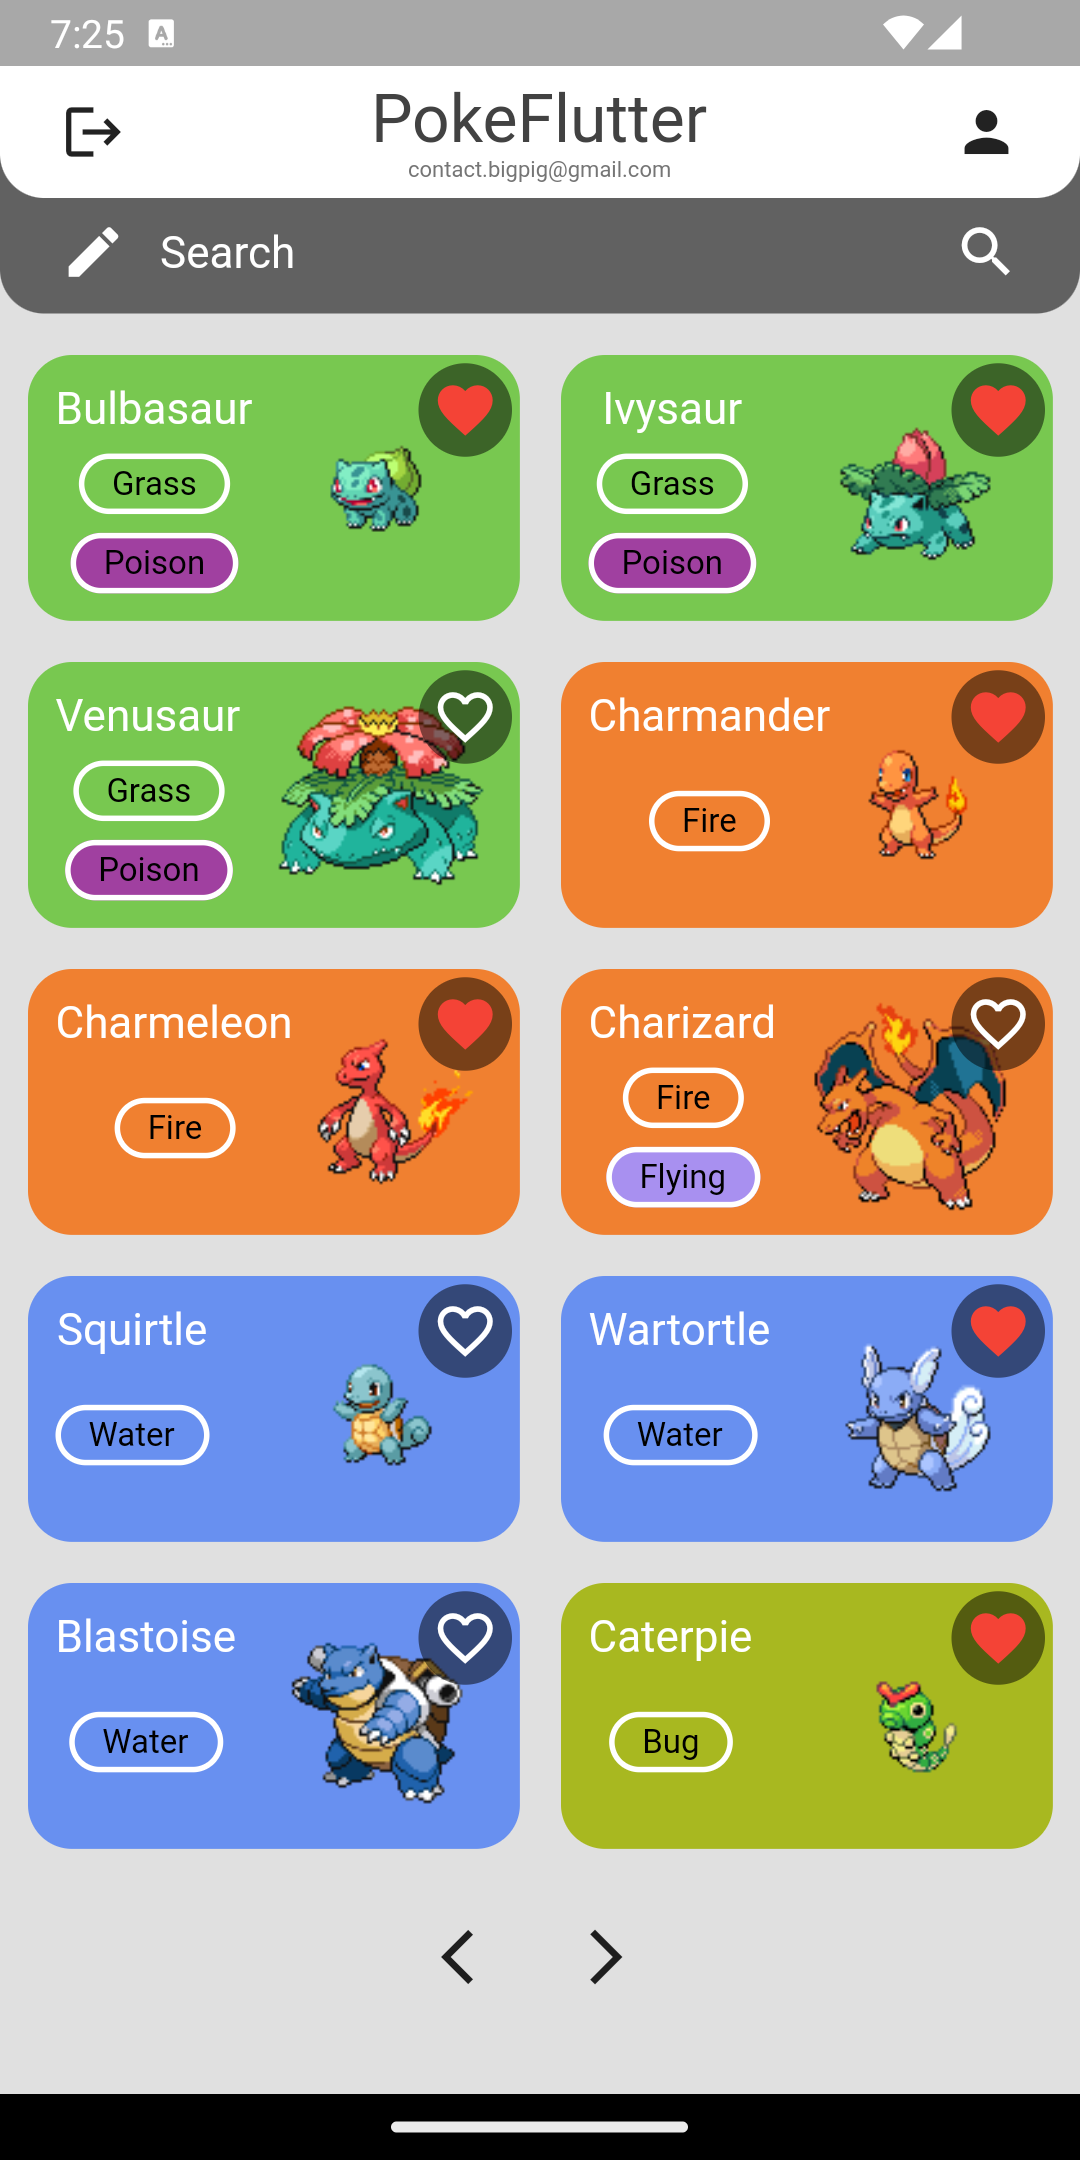
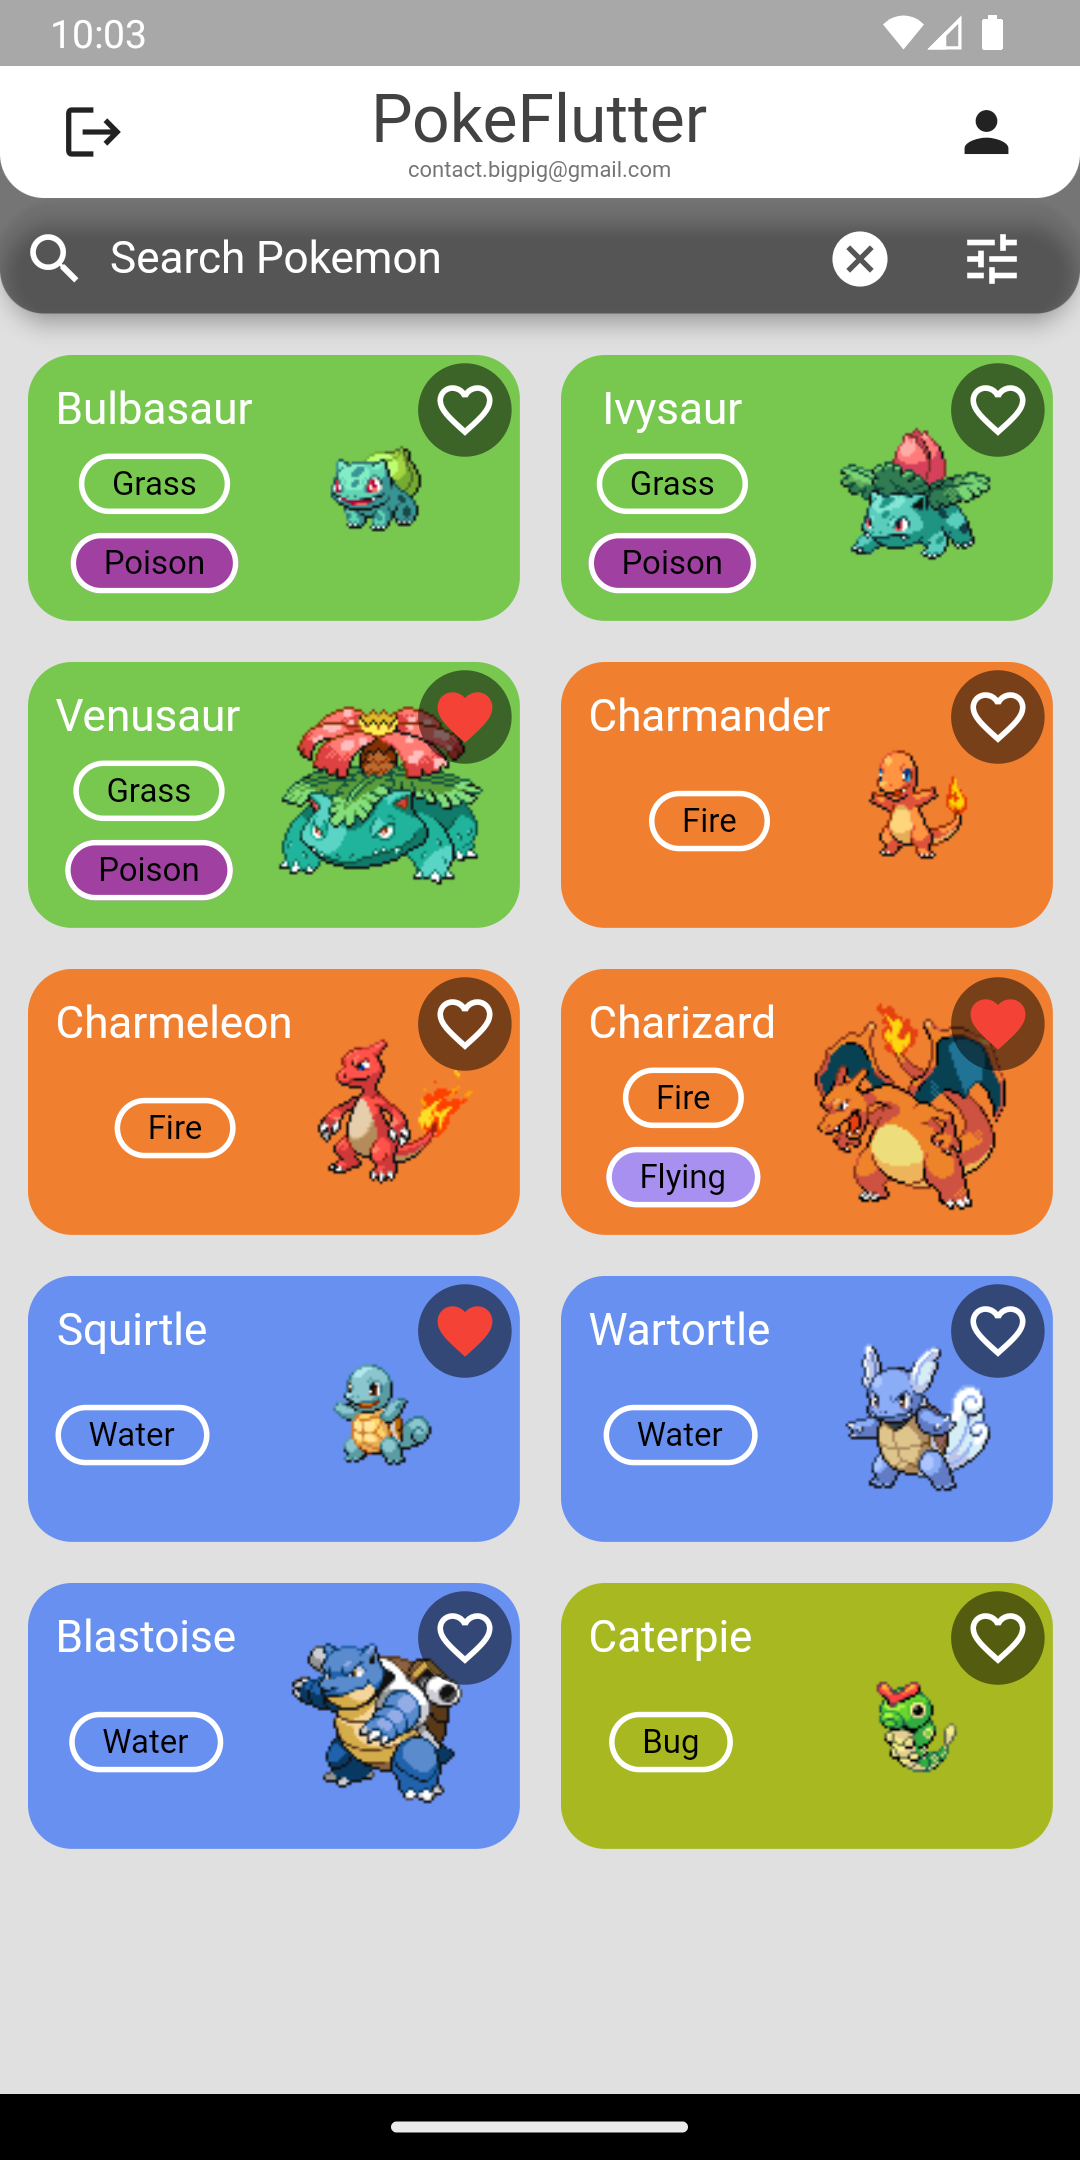
readme_update

diff --git a/flutter_firebase/lib/pokemon/services/pokemon_repository.dart b/flutter_firebase/lib/pokemon/services/pokemon_repository.dart
@@ -203,7 +203,6 @@ class PokemonRepository {
 
   Future<void> _loadAllGenerationsNames() async {
     final String generationsNameFilePath = await _getGenerationsNameFilePath();
-    //await File(generationsNameFilePath).delete(); // BORRAR
     try {
       if (await File(generationsNameFilePath).exists()) {
         await _generationsReedFicheroCsv(generationsNameFilePath);

diff --git a/README.md b/README.md
@@ -17,5 +17,10 @@ La aplicación cuenta con un login con correo y contraseña, registro con correo
   <tr>
     <td><img src="./assets/inof_about.png" width="150" height="300" /></td>
     <td><img src="./assets/info_stats.png" width="150" height="300" /></td>
+    <td><img src="./assets/filter_1.png" width="150" height="300" /></td>
+  </tr>
+    <tr>
+    <td></td>
+    <td><img src="./assets/filter_2.png" width="150" height="300" /></td>
   </tr>
 </table>
